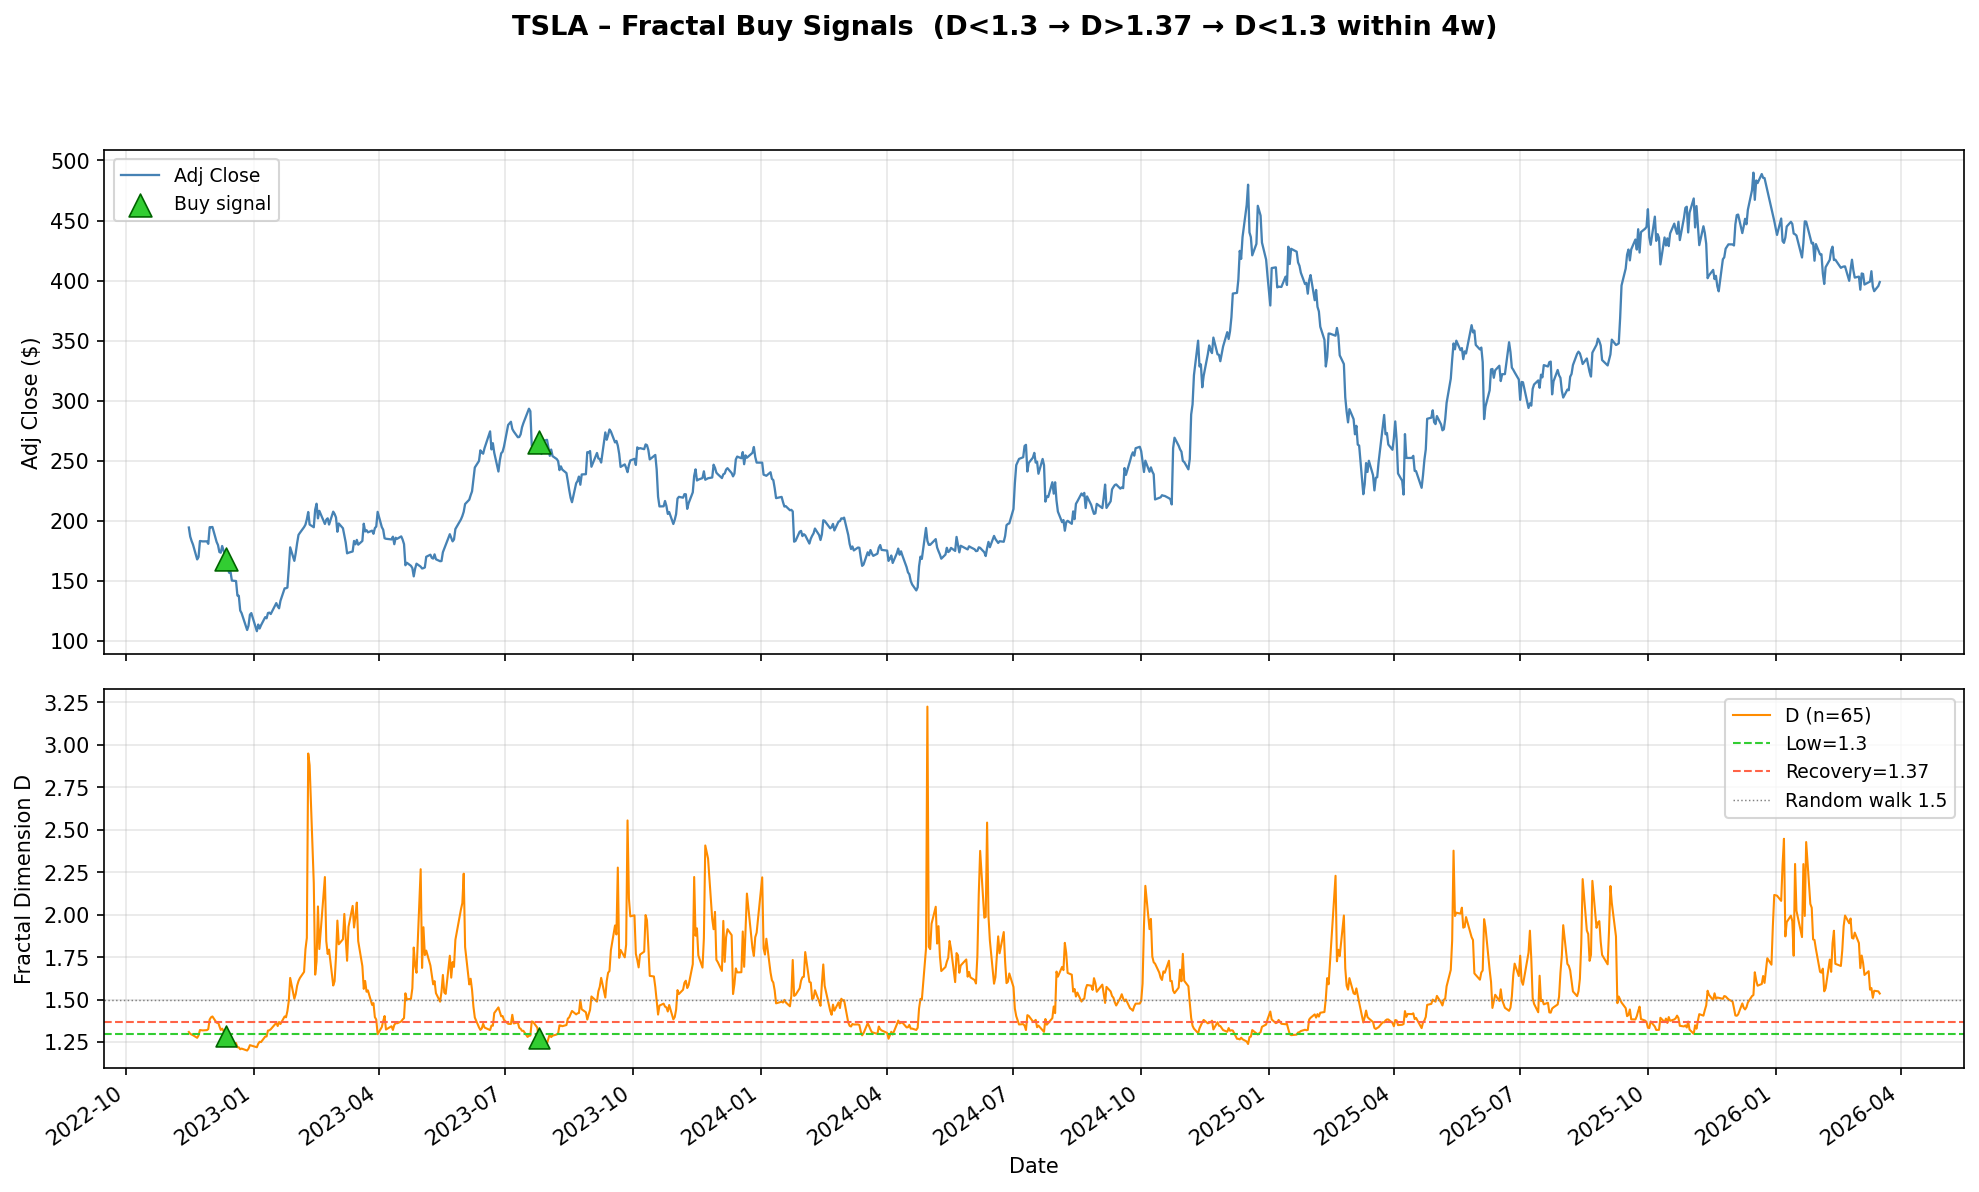
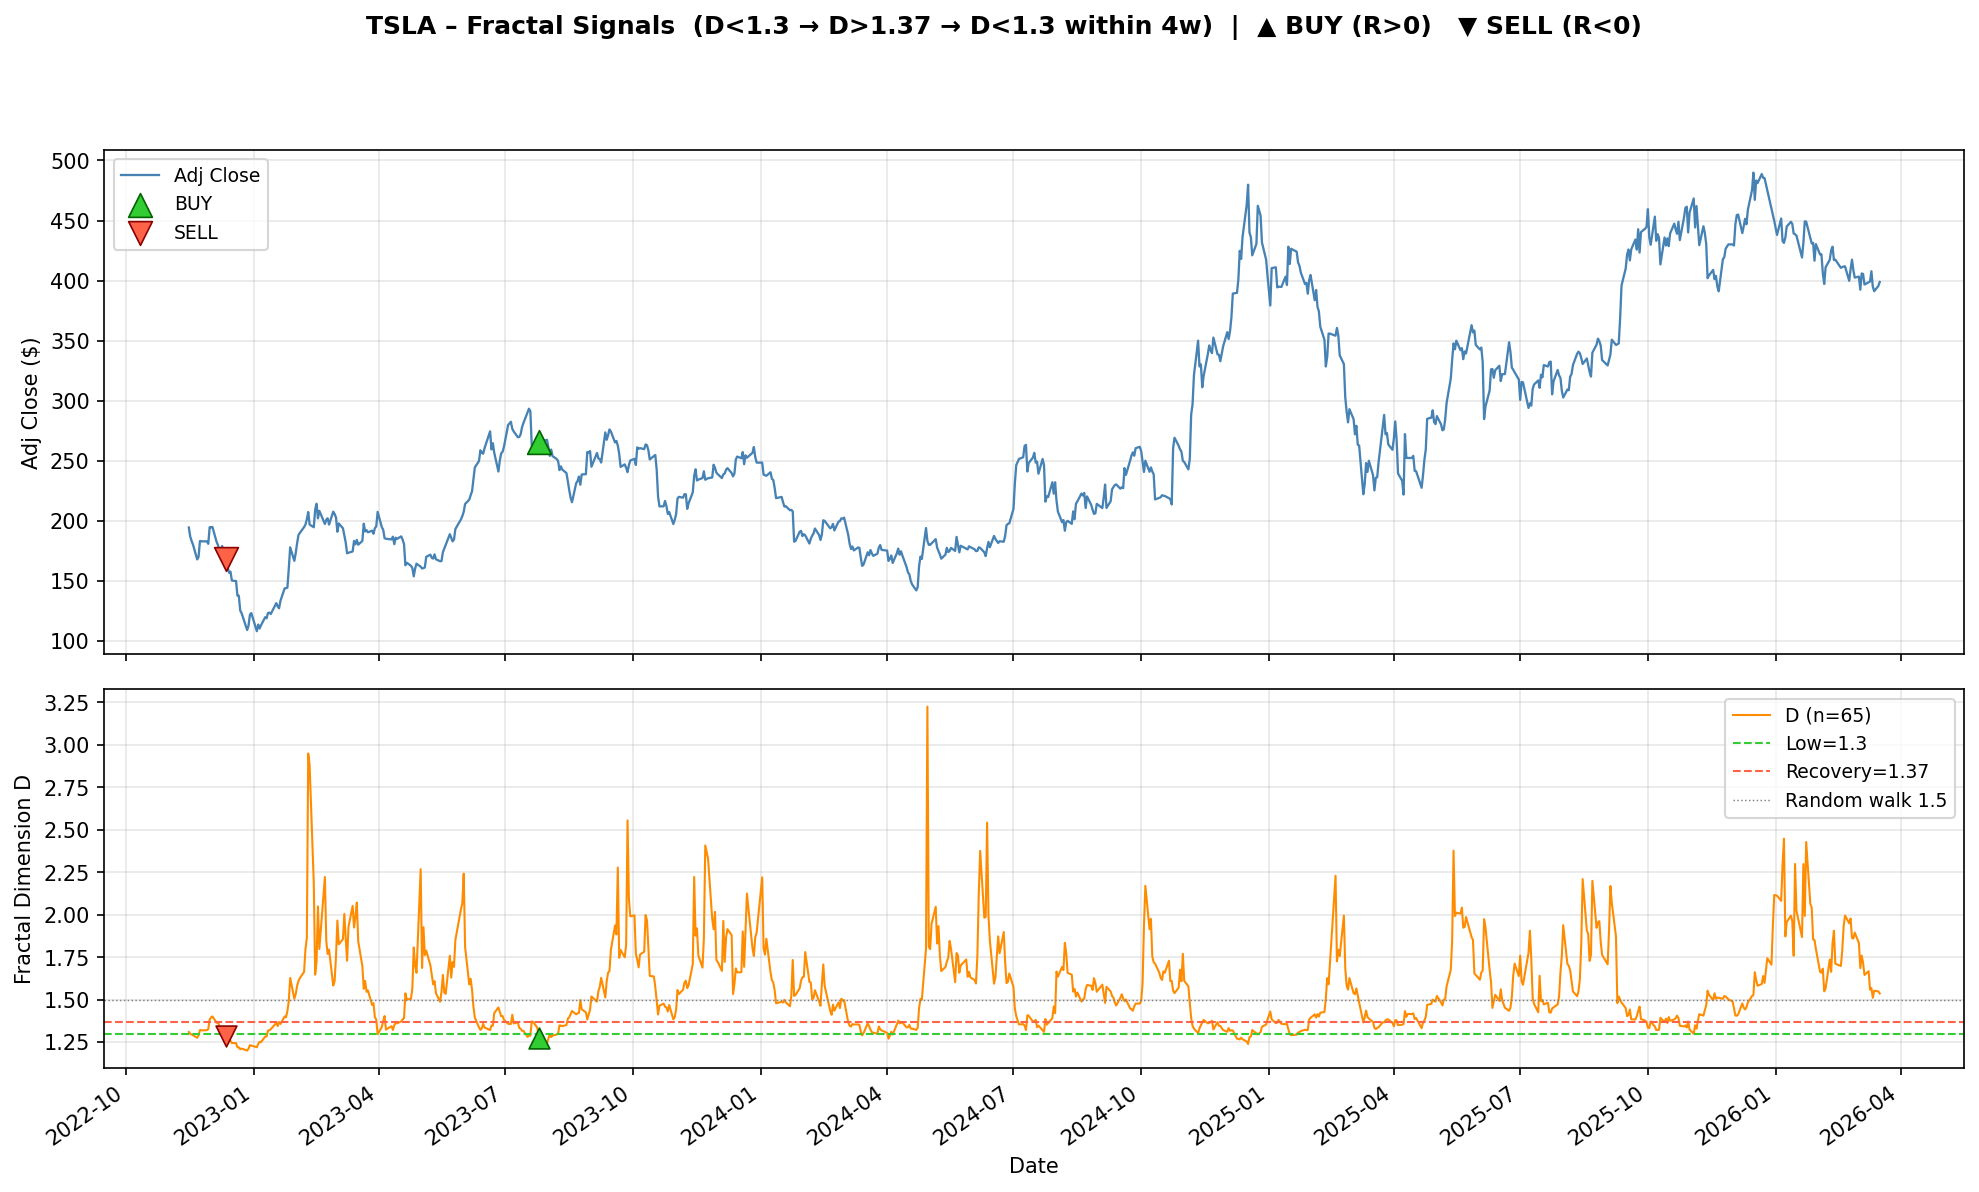
Differentiate BUY vs SELL signals using trend direction (R)
When D<1.30 the market is in a strong trend — direction is now
determined by R (n-period log return) at the first dip date:
  R > 0 → bullish trend → BUY  (returning to uptrend)
  R < 0 → bearish trend → SELL (returning to downtrend)

Summary table and chart markers now split by BUY (▲) / SELL (▼).

https://claude.ai/code/session_01WDkUMJHnGr6sLTu9VWGMnb

diff --git a/signals.py b/signals.py
@@ -1,13 +1,17 @@
 """
-Fractal Buy Signal Detection + Forward Return Analysis
-=======================================================
-Buy signal logic:
-  1. D drops below LOW_THRESH  (< 1.30)  — first dip
-  2. D recovers above HIGH_THRESH (> 1.37) — recovery
-  3. D drops below LOW_THRESH again (< 1.30) — second dip
+Fractal Signal Detection + Forward Return Analysis
+===================================================
+Signal logic:
+  1. D drops below LOW_THRESH  (< 1.30)  — first dip  (strong trend)
+  2. D recovers above HIGH_THRESH (> 1.37) — market pauses
+  3. D drops below LOW_THRESH again (< 1.30) — trend resumes
      within MAX_WEEKS_BETWEEN weeks of the first dip
 
-Signal date = day the second dip is confirmed (D < 1.30 after recovery).
+Trend direction is determined by R (n-period log return) at the first dip:
+  R > 0  → bullish trend  → BUY  signal (returning to uptrend)
+  R < 0  → bearish trend  → SELL signal (returning to downtrend)
+
+Signal date = day the second dip is confirmed.
 Forward returns measured at close 2, 4, 6, 8, 12 weeks later.
 """
 
@@ -46,9 +50,8 @@ def detect_signals(
         RECOVERED   → D recovered above high_thresh; now wait for second dip (within max_weeks)
 
     Returns a DataFrame of signal dates with columns:
-        signal_date, close_at_signal,
-        first_dip_date, recovery_date,
-        D_at_signal
+        signal_date, signal, close_at_signal, D_at_signal,
+        R_at_first_dip, first_dip_date, recovery_date
     """
     max_days = max_weeks * 7   # calendar-day window (generous for trading days)
 
@@ -58,6 +61,7 @@ def detect_signals(
     recovery_date  = None
 
     D = df["D"]
+    R = df["R"]   # n-period log return — encodes trend direction
 
     for date, d_val in D.items():
         if state == "IDLE":
@@ -69,14 +73,10 @@ def detect_signals(
             if d_val >= high_thresh:
                 state = "RECOVERED"
                 recovery_date = date
-            # if D never recovers that's fine — stay in FIRST_DIP
-            # but reset if we've been here too long without recovery
-            # (no cap on recovery wait — only the second dip must arrive within max_weeks of first)
 
         elif state == "RECOVERED":
             days_since_first = (date - first_dip_date).days
             if days_since_first > max_days:
-                # window expired — if D is still low restart from here
                 if d_val < low_thresh:
                     state = "FIRST_DIP"
                     first_dip_date = date
@@ -86,15 +86,19 @@ def detect_signals(
                     first_dip_date = None
                     recovery_date  = None
             elif d_val < low_thresh:
-                # SIGNAL FIRED
+                # Determine trend direction from R at first dip date
+                r_at_dip = R.loc[first_dip_date]
+                direction = "BUY" if r_at_dip > 0 else "SELL"
+
                 signals.append({
-                    "signal_date":    date,
+                    "signal_date":     date,
+                    "signal":          direction,
                     "close_at_signal": df.loc[date, "close"],
-                    "D_at_signal":    d_val,
-                    "first_dip_date": first_dip_date,
-                    "recovery_date":  recovery_date,
+                    "D_at_signal":     d_val,
+                    "R_at_first_dip":  r_at_dip,
+                    "first_dip_date":  first_dip_date,
+                    "recovery_date":   recovery_date,
                 })
-                # reset — don't allow overlapping signals, restart from IDLE
                 state = "IDLE"
                 first_dip_date = None
                 recovery_date  = None
@@ -145,17 +149,18 @@ def add_forward_returns(
 
 def print_signal_table(signals: pd.DataFrame, forward_weeks: list = FORWARD_WEEKS) -> None:
     ret_cols = [f"ret_{w}w" for w in forward_weeks]
-    display_cols = ["first_dip_date", "recovery_date", "D_at_signal",
-                    "close_at_signal"] + ret_cols
+    display_cols = ["signal", "first_dip_date", "recovery_date",
+                    "R_at_first_dip", "D_at_signal", "close_at_signal"] + ret_cols
 
-    print("\n" + "=" * 95)
-    print("  FRACTAL BUY SIGNALS  (D<1.30 → D>1.37 → D<1.30 within 4 weeks)")
-    print("=" * 95)
+    print("\n" + "=" * 110)
+    print("  FRACTAL SIGNALS  (D<1.30 → D>1.37 → D<1.30 within 4 weeks)  |  R>0 → BUY, R<0 → SELL")
+    print("=" * 110)
 
     df = signals[display_cols].copy()
-    df["first_dip_date"] = df["first_dip_date"].dt.date
-    df["recovery_date"]  = df["recovery_date"].dt.date
-    df["D_at_signal"]    = df["D_at_signal"].map("{:.4f}".format)
+    df["first_dip_date"]  = df["first_dip_date"].dt.date
+    df["recovery_date"]   = df["recovery_date"].dt.date
+    df["R_at_first_dip"]  = df["R_at_first_dip"].map("{:+.3f}".format)
+    df["D_at_signal"]     = df["D_at_signal"].map("{:.4f}".format)
     df["close_at_signal"] = df["close_at_signal"].map("${:.2f}".format)
 
     for col in ret_cols:
@@ -166,21 +171,24 @@ def print_signal_table(signals: pd.DataFrame, forward_weeks: list = FORWARD_WEEK
     print(df.to_string())
     print()
 
-    # Summary stats for completed signals
-    completed = signals[ret_cols].dropna()
-    if len(completed):
-        print(f"  Summary  ({len(completed)} completed signals)")
-        print("-" * 60)
+    # Summary split by BUY / SELL
+    for direction in ["BUY", "SELL"]:
+        subset = signals[signals["signal"] == direction][ret_cols].dropna()
+        if subset.empty:
+            continue
+        print(f"  {direction} signals — summary  ({len(subset)} completed)")
+        print("-" * 65)
         summary = pd.DataFrame({
-            "mean":    completed.mean(),
-            "median":  completed.median(),
-            "win%":    (completed > 0).mean() * 100,
-            "min":     completed.min(),
-            "max":     completed.max(),
+            "mean":   subset.mean(),
+            "median": subset.median(),
+            "win%":   (subset > 0).mean() * 100,
+            "min":    subset.min(),
+            "max":    subset.max(),
         })
         summary.index = [c.replace("ret_", "").replace("w", " weeks") for c in summary.index]
         print(summary.to_string(float_format=lambda x: f"{x:+.1f}"))
-    print("=" * 95 + "\n")
+        print()
+    print("=" * 110 + "\n")
 
 
 # ---------------------------------------------------------------------------
@@ -198,20 +206,26 @@ def plot_signals(
         gridspec_kw={"height_ratios": [2, 1.5], "hspace": 0.08},
     )
     fig.suptitle(
-        f"{ticker} – Fractal Buy Signals  "
-        f"(D<{LOW_THRESH} → D>{HIGH_THRESH} → D<{LOW_THRESH} within {MAX_WEEKS_BETWEEN}w)",
-        fontsize=13, fontweight="bold",
+        f"{ticker} – Fractal Signals  "
+        f"(D<{LOW_THRESH} → D>{HIGH_THRESH} → D<{LOW_THRESH} within {MAX_WEEKS_BETWEEN}w)  |  "
+        f"▲ BUY (R>0)   ▼ SELL (R<0)",
+        fontsize=12, fontweight="bold",
     )
 
     # ── Panel 1: Price with signal markers ──
     ax1.plot(fractals.index, fractals["close"], color="steelblue",
              linewidth=1.1, label="Adj Close")
     if not signals.empty:
-        ax1.scatter(
-            signals.index, signals["close_at_signal"],
-            marker="^", color="limegreen", s=120, zorder=5,
-            label="Buy signal", edgecolors="darkgreen", linewidths=0.8,
-        )
+        buys  = signals[signals["signal"] == "BUY"]
+        sells = signals[signals["signal"] == "SELL"]
+        if not buys.empty:
+            ax1.scatter(buys.index, buys["close_at_signal"],
+                        marker="^", color="limegreen", s=130, zorder=5,
+                        label="BUY", edgecolors="darkgreen", linewidths=0.8)
+        if not sells.empty:
+            ax1.scatter(sells.index, sells["close_at_signal"],
+                        marker="v", color="tomato", s=130, zorder=5,
+                        label="SELL", edgecolors="darkred", linewidths=0.8)
     ax1.set_ylabel("Adj Close ($)")
     ax1.legend(fontsize=9)
     ax1.grid(True, alpha=0.3)
@@ -226,11 +240,16 @@ def plot_signals(
     ax2.axhline(1.5, color="grey", linestyle=":", linewidth=0.7, label="Random walk 1.5")
 
     if not signals.empty:
-        ax2.scatter(
-            signals.index, signals["D_at_signal"],
-            marker="^", color="limegreen", s=100, zorder=5,
-            edgecolors="darkgreen", linewidths=0.8,
-        )
+        buys  = signals[signals["signal"] == "BUY"]
+        sells = signals[signals["signal"] == "SELL"]
+        if not buys.empty:
+            ax2.scatter(buys.index, buys["D_at_signal"],
+                        marker="^", color="limegreen", s=100, zorder=5,
+                        edgecolors="darkgreen", linewidths=0.8)
+        if not sells.empty:
+            ax2.scatter(sells.index, sells["D_at_signal"],
+                        marker="v", color="tomato", s=100, zorder=5,
+                        edgecolors="darkred", linewidths=0.8)
 
     ax2.set_ylabel("Fractal Dimension D")
     ax2.set_xlabel("Date")
